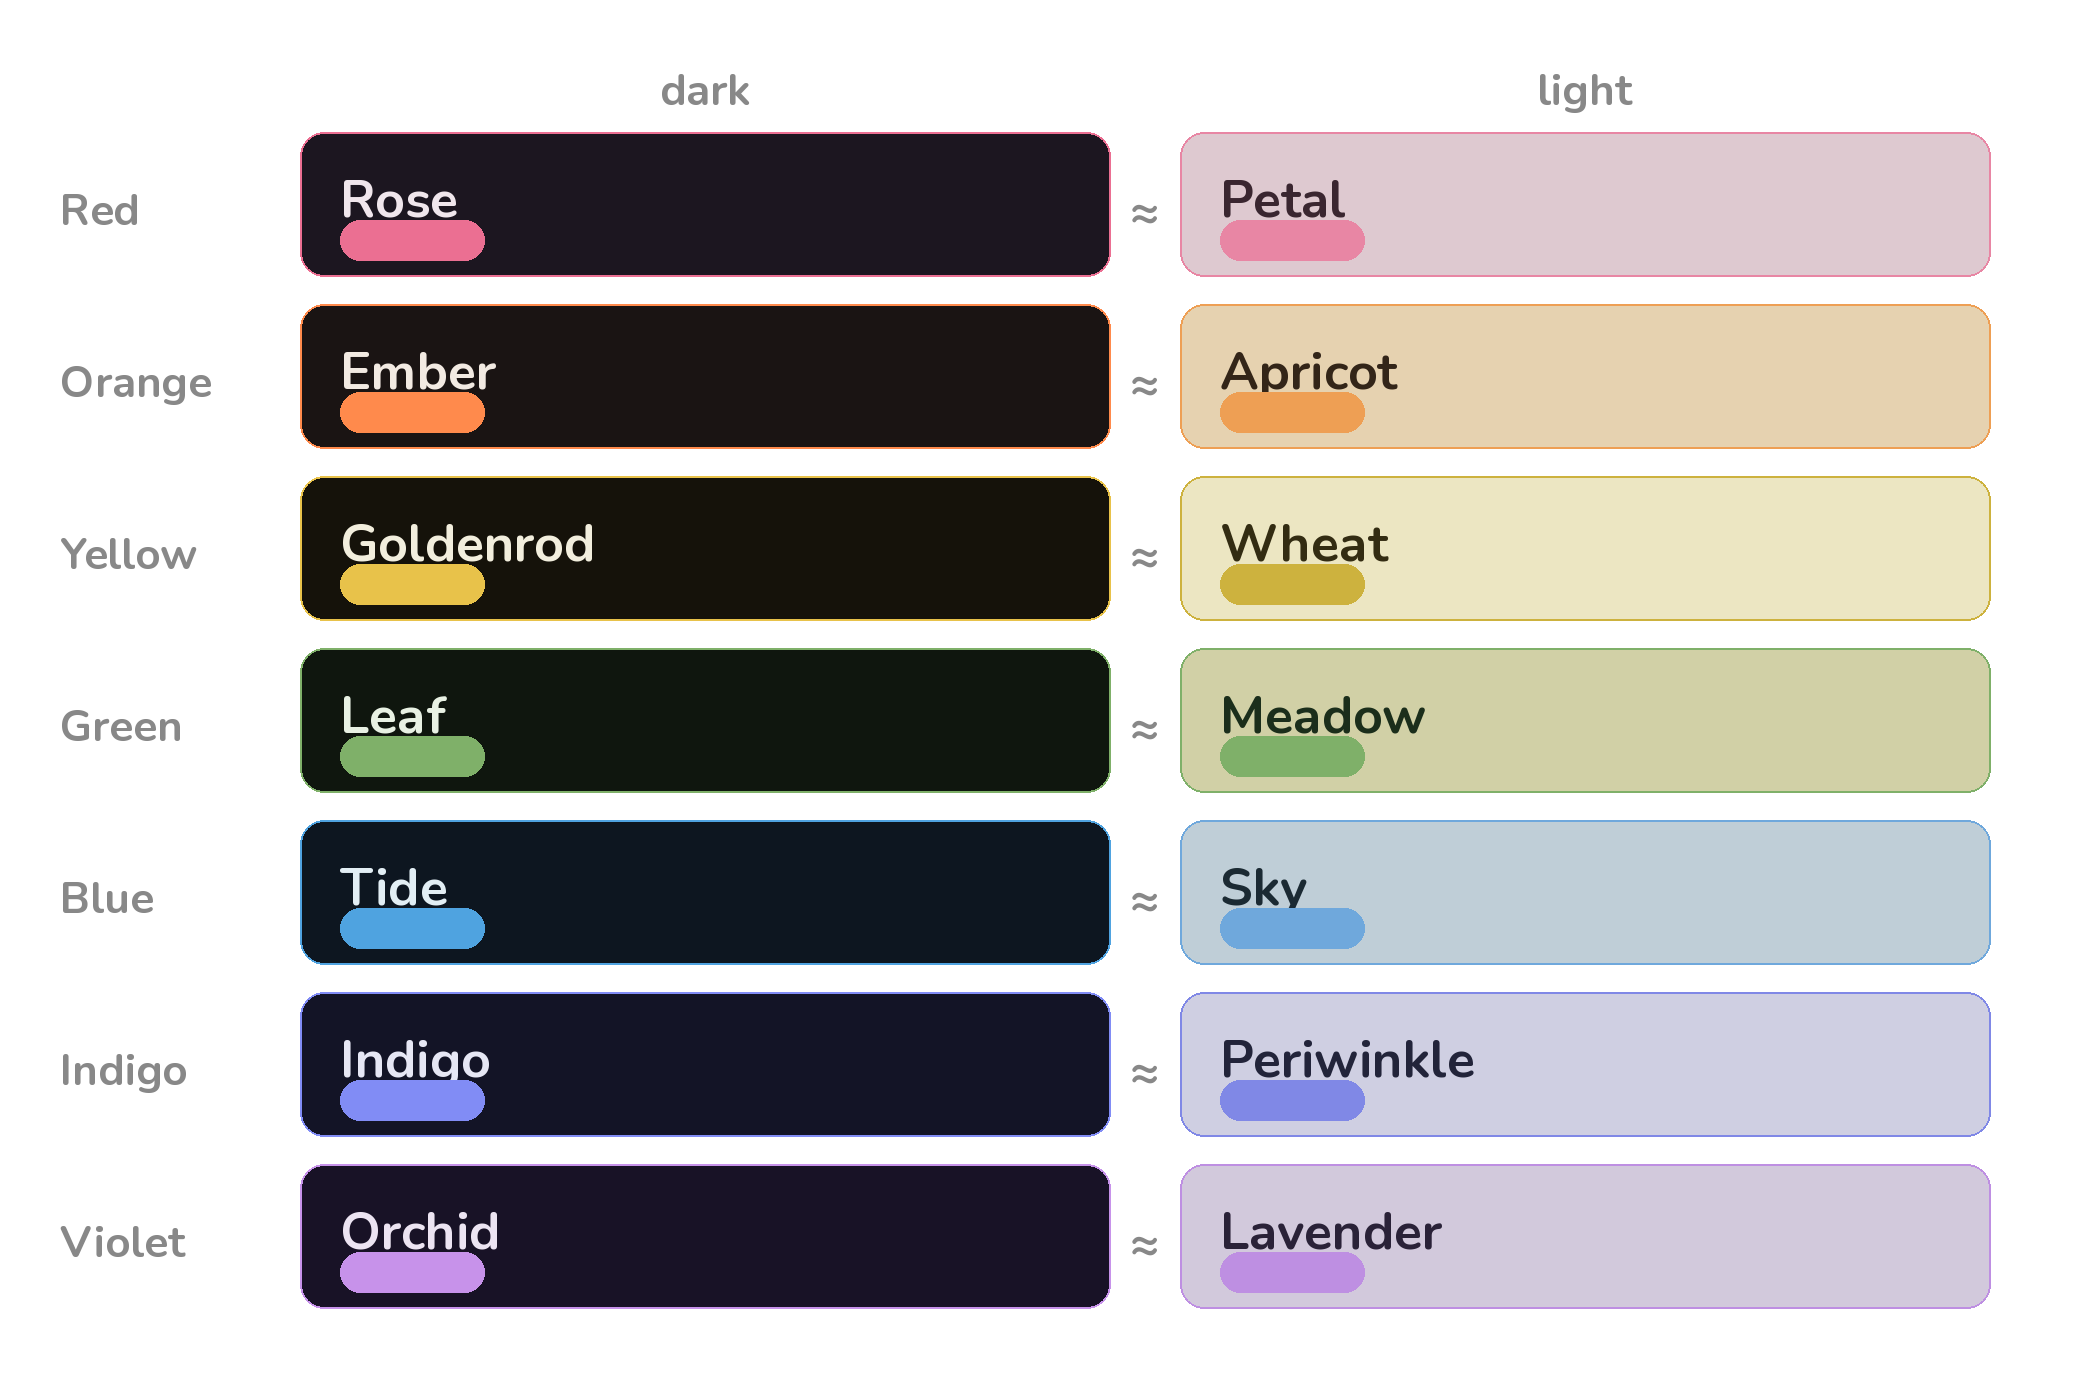
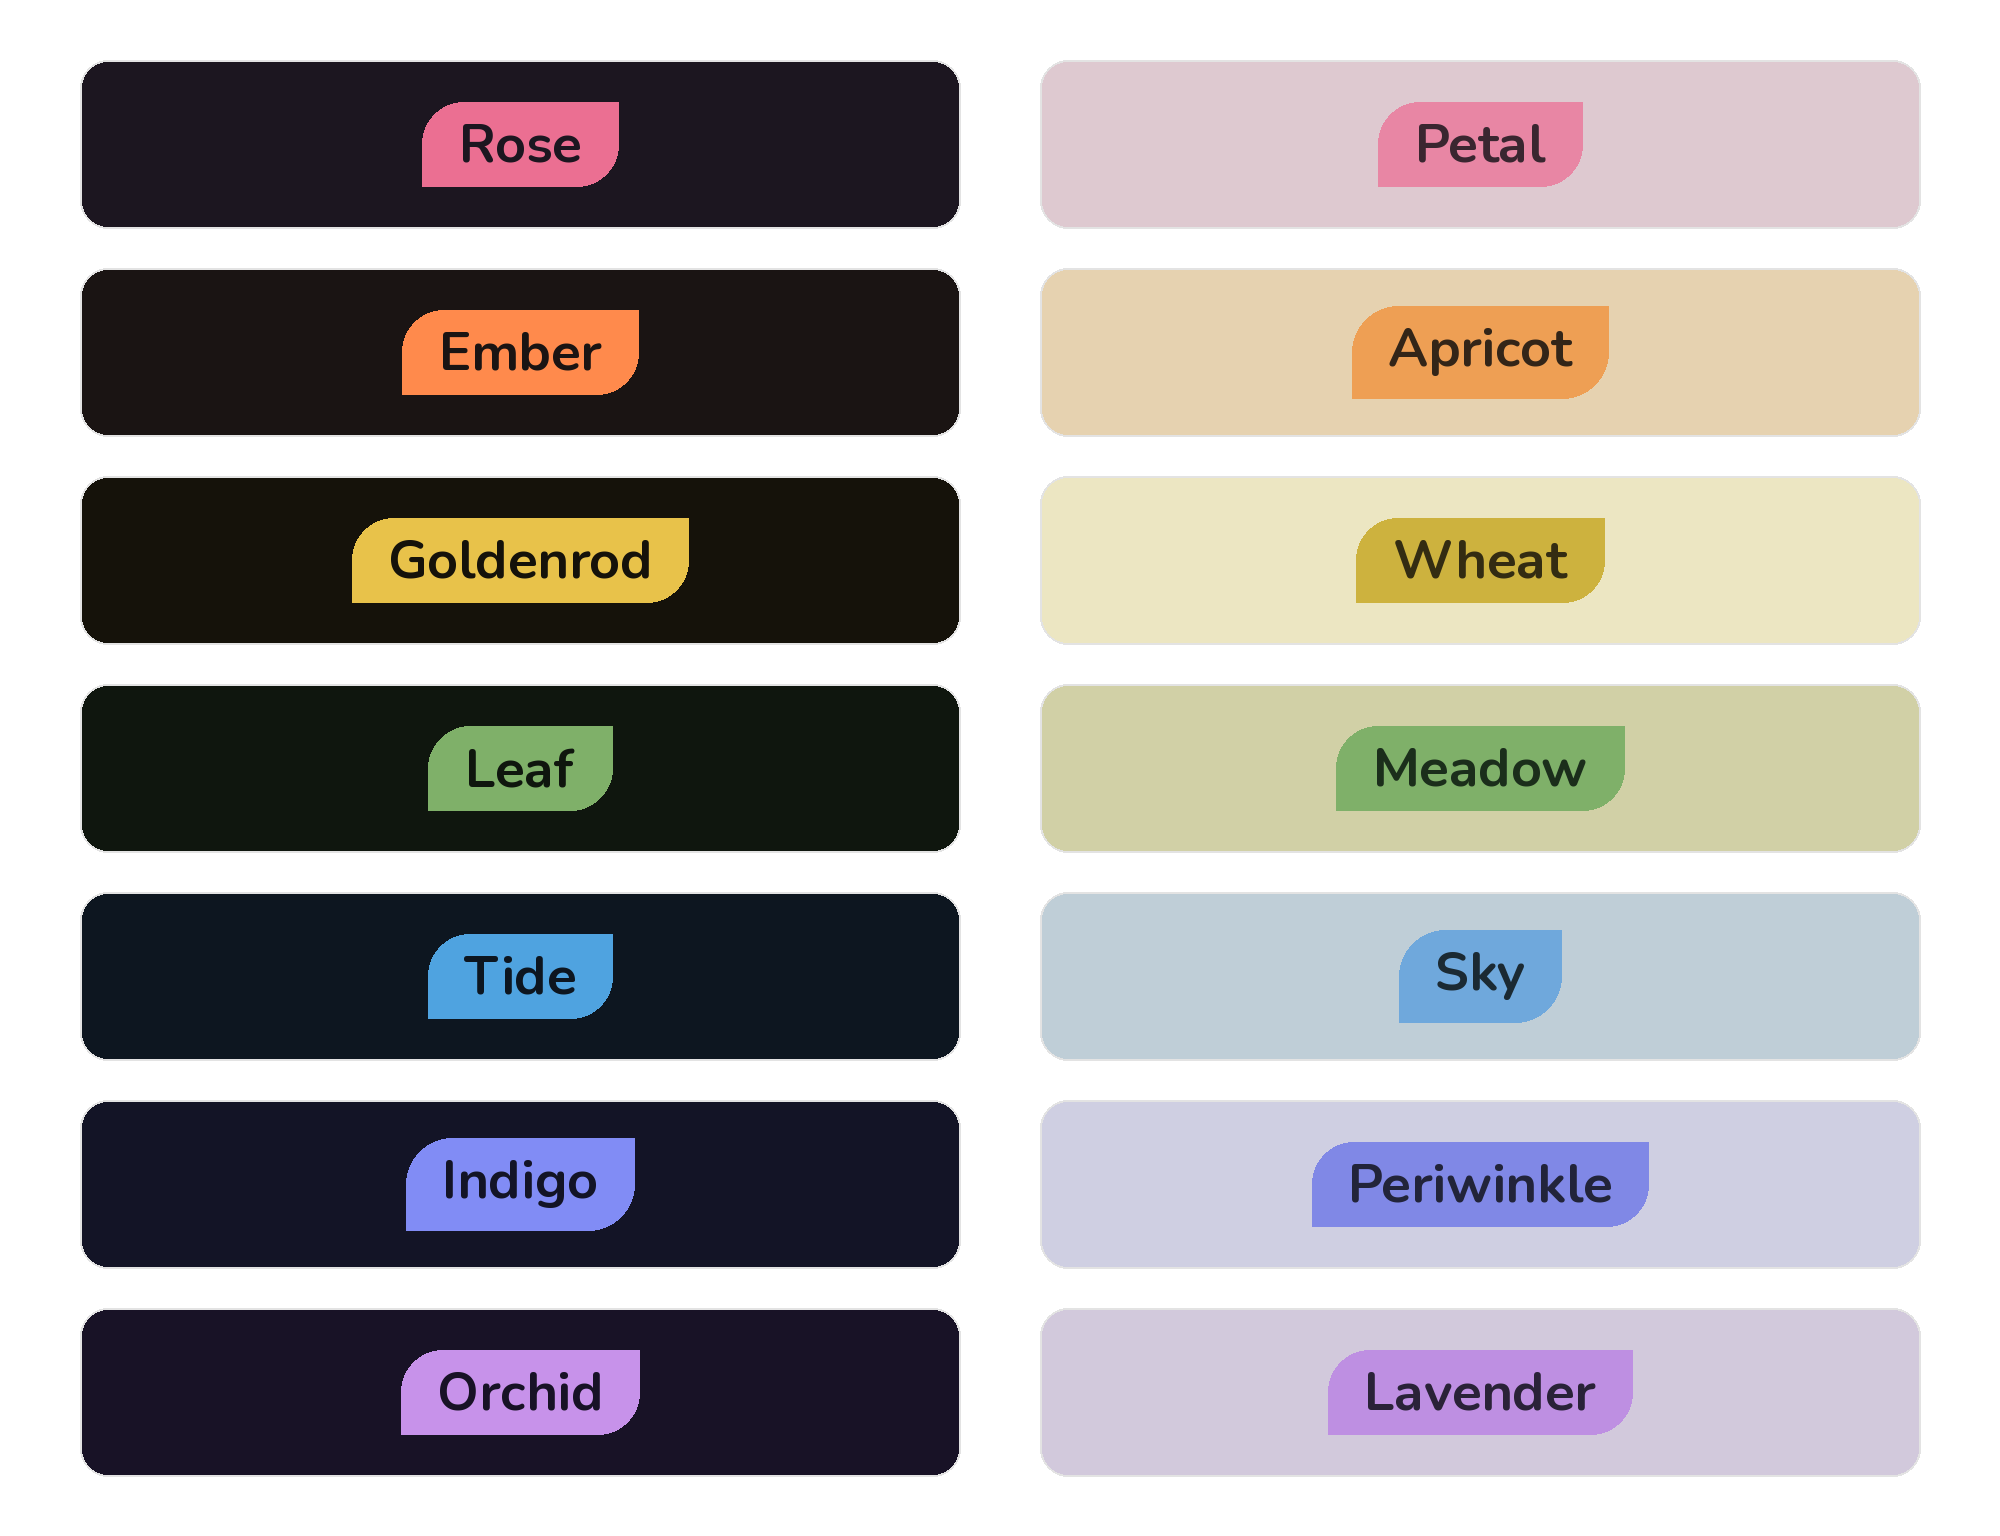
docs: redesign the theme swatch and default the site to dark
Swatch: each scheme is now a "selected row" preview - its page background with a
centered Leaf-shaped pill (rounded top-left + bottom-right) holding the scheme name
in its on-pill text color. Drops the spectrum labels, dark/light headers, and the
join glyph. Default the docs to dark on first load: persist starlight-theme=dark
when no preference is set so Starlight keeps it instead of following the OS.

diff --git a/scripts/make-theme-swatches.py b/scripts/make-theme-swatches.py
@@ -1,10 +1,11 @@
 #!/usr/bin/env python3
-"""Build public/theme-swatches.png: the 14 Leaf color schemes as paired swatches.
+"""Build public/theme-swatches.png: the 14 Leaf color schemes.
 
-Seven spectrum rows (R-O-Y-G-B-I-V), dark scheme left, light right, each a mini
-card in its own colors (page bg, theme text for the name, selection pill). Labels
-use a mid gray so the figure reads on either a light or dark docs page.
-Transparent background. Run from leaf-docs root: python3 scripts/make-theme-swatches.py
+Each scheme is a card in its page background with a centered Leaf-shaped pill (the
+launcher's directional pill: rounded top-left + bottom-right only) holding the
+scheme name in its on-pill text color - i.e. a "selected row" preview. Seven rows,
+dark column left, light column right. Transparent background so it reads on either
+a light or dark docs page. Run from leaf-docs root: python3 scripts/make-theme-swatches.py
 """
 import os
 from PIL import Image, ImageDraw, ImageFont
@@ -13,49 +14,45 @@ ROOT = os.path.dirname(os.path.dirname(os.path.abspath(__file__)))
 FONT = os.path.join(ROOT, "../Catastrophe/res/fonts/Nunito/Nunito-Bold.ttf")
 OUT = os.path.join(ROOT, "public/theme-swatches.png")
 
-# (family, dark(name,bg,text,sel), light(name,bg,text,sel))
+# (name, page bg, selection pill, on-pill text), dark left / light right, spectrum order.
 rows = [
- ("Red",    ("Rose","#1C1620","#F0E6EC","#EB6F92"),      ("Petal","#DEC9D0","#3A2630","#E886A4")),
- ("Orange", ("Ember","#1A1413","#F2EAE2","#FF8A4C"),     ("Apricot","#E6D2B0","#332518","#EE9F54")),
- ("Yellow", ("Goldenrod","#15120A","#F2EEDD","#E8C24A"), ("Wheat","#ECE6C2","#332C12","#CDB23E")),
- ("Green",  ("Leaf","#0F160E","#E8F1E3","#7FB069"),      ("Meadow","#D1D0A6","#1B2E1B","#7FB069")),
- ("Blue",   ("Tide","#0D1620","#E2EEF4","#4FA3E0"),      ("Sky","#BFCED7","#1B2A33","#6FA8DC")),
- ("Indigo", ("Indigo","#131426","#E6E7F4","#818CF5"),    ("Periwinkle","#CFCFE2","#22243A","#8088E6")),
- ("Violet", ("Orchid","#181226","#ECE4F2","#C792EA"),    ("Lavender","#D2C9DC","#2A2238","#BE8FE2")),
+ (("Rose","#1C1620","#EB6F92","#1C1620"),       ("Petal","#DEC9D0","#E886A4","#3A2630")),
+ (("Ember","#1A1413","#FF8A4C","#1A1413"),       ("Apricot","#E6D2B0","#EE9F54","#332518")),
+ (("Goldenrod","#15120A","#E8C24A","#15120A"),   ("Wheat","#ECE6C2","#CDB23E","#332C12")),
+ (("Leaf","#0F160E","#7FB069","#0F160E"),         ("Meadow","#D1D0A6","#7FB069","#1B2E1B")),
+ (("Tide","#0D1620","#4FA3E0","#0D1620"),         ("Sky","#BFCED7","#6FA8DC","#1B2A33")),
+ (("Indigo","#131426","#818CF5","#131426"),       ("Periwinkle","#CFCFE2","#8088E6","#22243A")),
+ (("Orchid","#181226","#C792EA","#181226"),       ("Lavender","#D2C9DC","#BE8FE2","#2A2238")),
 ]
-S = 2  # render at 2x for crisp display
-GRAY = "#888888"
-W = 1040 * S
-ROW_H, PITCH = 72 * S, 86 * S
-TOP = 66 * S
-H = TOP + len(rows) * PITCH + 24 * S
-DX, EX, LX, CW = 150 * S, 572 * S, 590 * S, 405 * S
+S = 2
+W = 1000 * S
+CW, CH = 440 * S, 84 * S
+MX, GAP, TOP, PITCH = 40 * S, 40 * S, 30 * S, 104 * S
+DX, LX = MX, MX + CW + GAP
+H = TOP + len(rows) * PITCH + 30 * S - (PITCH - CH)
 
 img = Image.new("RGBA", (W, H), (0, 0, 0, 0))
 d = ImageDraw.Draw(img)
-name_f = ImageFont.truetype(FONT, 26 * S)
-lab_f = ImageFont.truetype(FONT, 22 * S)
+font = ImageFont.truetype(FONT, 27 * S)
 
 
 def card(x, y, c):
-    name, bg, text, sel = c
-    d.rounded_rectangle([x, y, x + CW, y + ROW_H], radius=12 * S, fill=bg, outline=sel, width=S)
-    d.text((x + 20 * S, y + 16 * S), name, font=name_f, fill=text)
-    d.rounded_rectangle([x + 20 * S, y + 44 * S, x + 92 * S, y + 64 * S], radius=10 * S, fill=sel)
+    name, bg, sel, txt = c
+    d.rounded_rectangle([x, y, x + CW, y + CH], radius=14 * S, fill=bg,
+                        outline=(136, 136, 136, 60), width=S)
+    bb = d.textbbox((0, 0), name, font=font)
+    tw, th = bb[2] - bb[0], bb[3] - bb[1]
+    pw, ph = tw + 36 * S, th + 22 * S
+    px, py = x + (CW - pw) / 2, y + (CH - ph) / 2
+    # Leaf pill: round top-left + bottom-right corners only.
+    d.rounded_rectangle([px, py, px + pw, py + ph], radius=ph / 2, fill=sel,
+                        corners=(True, False, True, False))
+    d.text((px + (pw - tw) / 2 - bb[0], py + (ph - th) / 2 - bb[1]), name, font=font, fill=txt)
 
 
-def ctr(x, y, txt, font, fill):
-    bb = d.textbbox((0, 0), txt, font=font)
-    d.text((x - (bb[2] - bb[0]) / 2, y), txt, font=font, fill=fill)
-
-
-ctr(DX + CW / 2, 30 * S, "dark", lab_f, GRAY)
-ctr(LX + CW / 2, 30 * S, "light", lab_f, GRAY)
-for i, (fam, dk, lt) in enumerate(rows):
+for i, (dk, lt) in enumerate(rows):
     y = TOP + i * PITCH
-    d.text((30 * S, y + 24 * S), fam, font=lab_f, fill=GRAY)
     card(DX, y, dk)
-    ctr(EX, y + 22 * S, "≈", name_f, GRAY)
     card(LX, y, lt)
 
 img.save(OUT, "PNG")